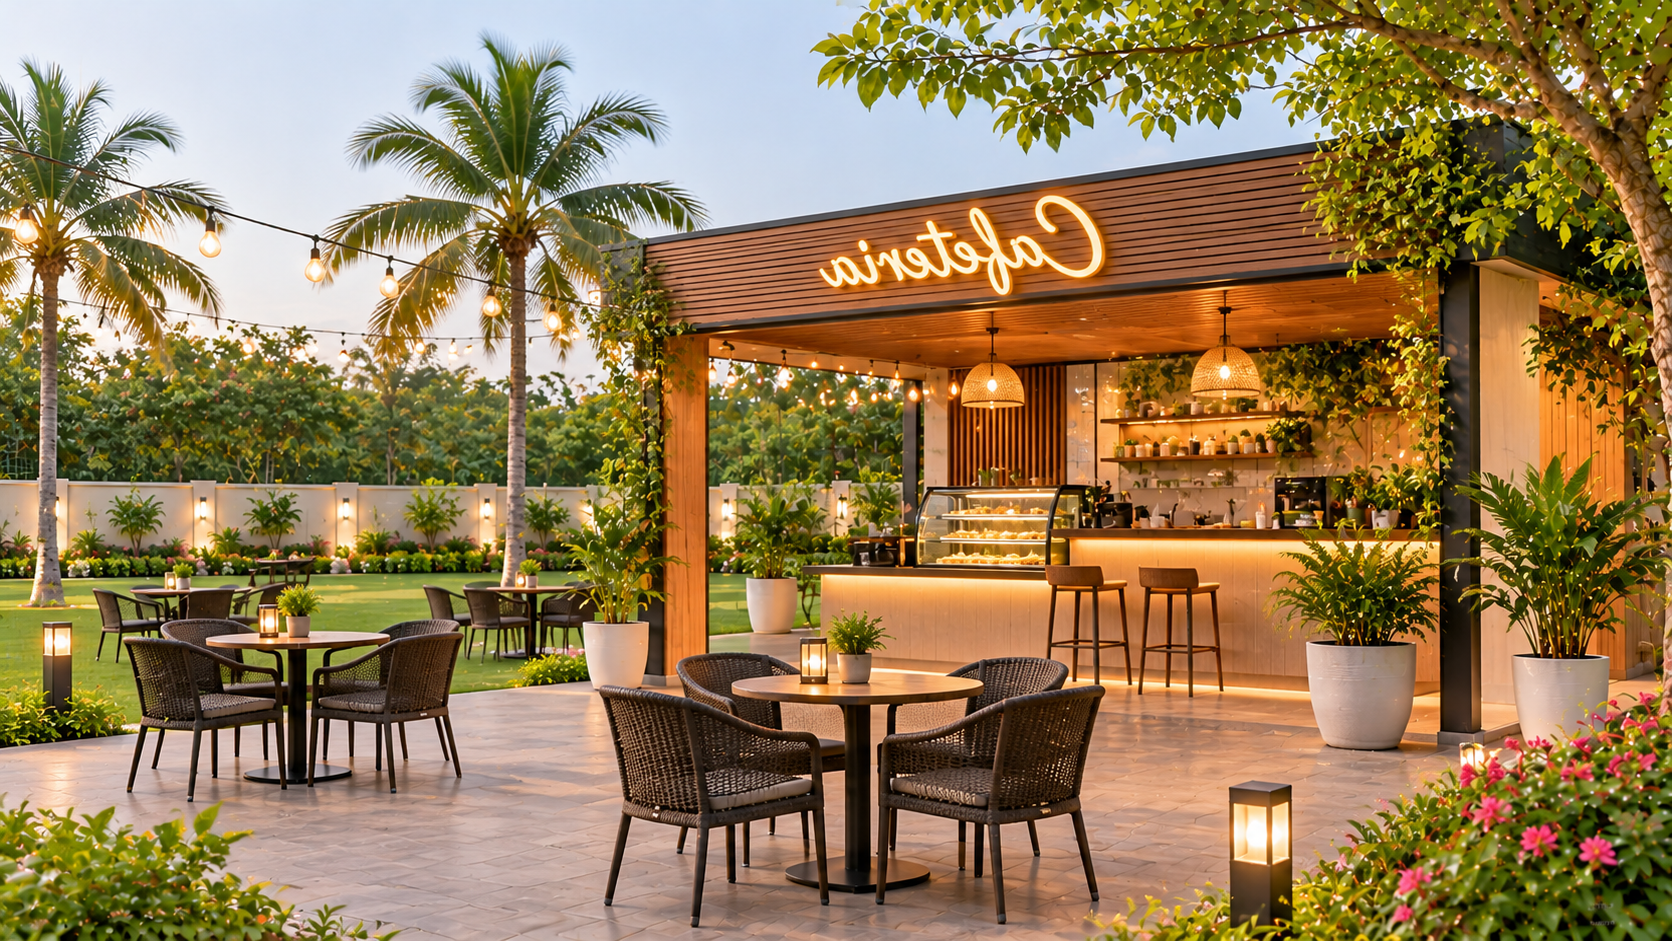
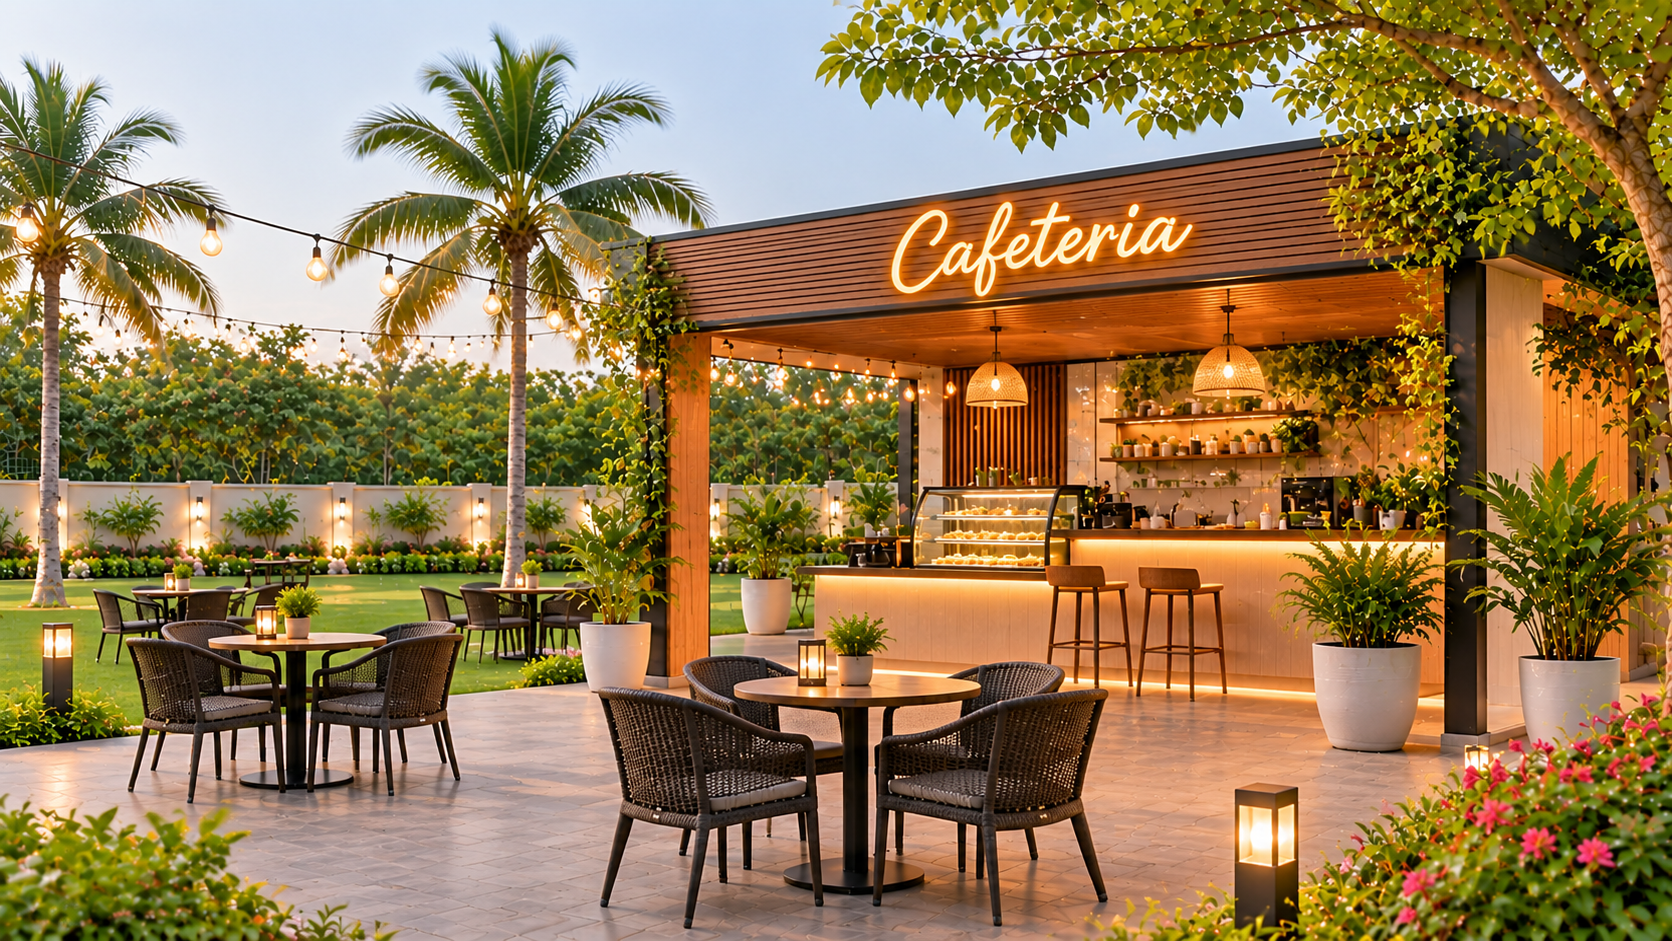
LATEST

diff --git a/css/style.css b/css/style.css
@@ -257,7 +257,10 @@ h3 { font-size: 1.3rem; }
 }
 @media(min-width:1200px) {
     .hero-content .container { margin-left:3.5vw; margin-right:auto; width:93%; max-width:none; padding-right:2rem; }
-  .hero-title { max-width:660px; font-size:clamp(2.8rem,4.1vw,4rem); line-height:1.08; }
+  .hero-title { max-width:1100px; font-size:clamp(2.6rem,3.6vw,3.6rem); line-height:1.08; }
+  .hero-title-first, .hero-title-accent { display:block; }
+  .hero-title-first { white-space:nowrap; }
+  .hero-title-accent { color:#d4ad55; }
   .hero .hero-overlay { background:linear-gradient(105deg, rgba(3,20,14,.97) 0%, rgba(4,26,18,.91) 37%, rgba(4,26,18,.57) 65%, rgba(4,26,18,.1) 100%); }
 }
 .hero-tag {
@@ -1083,8 +1086,8 @@ section { padding: 5rem 0; }
    ============================================================ */
 .footer { background:var(--primary); color:#fff; padding-top:4rem; }
 .footer-grid {
-  display:grid; gap:2.5rem;
-  grid-template-columns:repeat(auto-fit, minmax(200px, 1fr));
+  display:grid; gap:2.25rem;
+  grid-template-columns:minmax(0,1.15fr) minmax(130px,.7fr) minmax(0,1.2fr) minmax(0,1fr);
   margin-bottom:3rem;
 }
 .footer-logo { display:inline-flex; align-items:center; background:rgba(255,255,255,.76); padding:3px 4px; border-radius:10px; margin-bottom:1.2rem; }
@@ -1592,16 +1595,32 @@ section { padding: 5rem 0; }
     font-size: .8rem;
   }
 
-  .footer { padding-top: 3rem; }
-  .footer-grid { grid-template-columns: 1fr; gap: 1.8rem; }
+  .footer { padding-top: 2.5rem; }
+  .footer-grid { grid-template-columns: repeat(2, minmax(0, 1fr)); gap: 1.35rem .9rem; margin-bottom: 1.5rem; }
+  .footer-grid > div:first-child, .footer-grid > div:last-child { grid-column: 1 / -1; }
+  .footer-logo { margin-bottom: .75rem; padding: 2px 4px; }
+  .footer-logo img { width: min(100%, 210px); max-height: 48px; }
+  .footer-desc { max-width: 42ch; margin-bottom: .75rem; font-size: .78rem; line-height: 1.55; }
+  .footer-social { gap: .45rem; }
+  .social-btn { width: 32px; height: 32px; font-size: .78rem; }
+  .footer-heading { margin-bottom: .65rem; font-size: .88rem; }
+  .footer-links li { margin-bottom: .45rem; }
+  .footer-links a { font-size: .76rem; line-height: 1.4; }
+  .footer-contact li { gap: .5rem; margin-bottom: .65rem; font-size: .76rem; line-height: 1.45; }
   .footer-bottom {
     flex-direction: column;
-    align-items: flex-start;
+    align-items: center;
+    justify-content: center;
+    gap: .6rem;
+    padding: 1rem 0;
+    text-align: center;
+    font-size: .68rem;
   }
 
   .footer-bottom-links {
     flex-wrap: wrap;
-    gap: 1rem;
+    justify-content: center;
+    gap: .75rem;
   }
 
   .wa-float {
@@ -2011,3 +2030,116 @@ section { padding: 5rem 0; }
   .testimonials-section .testimonial-role { font-size: .6rem; }
   .testimonials-section .testimonial-stars { font-size: .7rem; }
 }
+/* Compact the Free Consultation and newsletter area on phones only */
+@media (max-width: 640px) {
+  .cta-section { padding: 2.8rem 0; }
+  .cta-inner { gap: 1.1rem; }
+  .cta-inner > .animate:first-child > .section-tag { font-size: .62rem; }
+  .cta-inner > .animate:first-child > h2 { font-size: clamp(1.4rem, 6.8vw, 1.8rem); line-height: 1.12; margin: .4rem 0 .65rem !important; }
+  .cta-inner > .animate:first-child > p { font-size: .82rem !important; line-height: 1.45; margin-bottom: .9rem !important; }
+  .cta-inner > .animate:first-child > .flex { gap: .45rem; }
+  .cta-inner > .animate:first-child > .flex .btn { min-height: 38px; padding: .5rem .7rem; font-size: .72rem; }
+  .cta-trust { gap: .55rem .8rem; margin-top: .85rem; }
+  .cta-trust span { font-size: .68rem; }
+  .newsletter-card { padding: 1.1rem; border-radius: 16px; }
+  .newsletter-card h3 { font-size: 1.15rem; margin-bottom: .35rem; }
+  .newsletter-card p { font-size: .76rem; line-height: 1.4; margin-bottom: .8rem; }
+  .newsletter-card .nl-field, .newsletter-card .nl-select { height: 40px; padding-inline: .75rem; font-size: .78rem; margin-bottom: .5rem; }
+  .newsletter-card .btn { height: 40px !important; min-height: 40px; padding: .45rem .7rem; font-size: .76rem; }
+  .newsletter-card p:last-child { font-size: .64rem !important; margin-top: .55rem !important; margin-bottom: 0; }
+}
+/* Simple Process: compact mobile layout */
+@media (max-width: 640px) {
+  .simple-process-section { padding: 2.2rem 0; }
+  .simple-process-section .section-header { margin-bottom: .95rem; }
+  .simple-process-section .section-tag { font-size: .58rem; }
+  .simple-process-section .section-title { font-size: clamp(1.25rem, 5.8vw, 1.6rem); line-height: 1.1; margin-bottom: .35rem; }
+  .simple-process-section .section-sub { font-size: .72rem; line-height: 1.35; }
+  .simple-process-section .steps-grid { gap: .85rem; }
+  .simple-process-section .step-num { width: 42px; height: 42px; margin-bottom: .5rem; border-width: 2px; font-size: .92rem; }
+  .simple-process-section .step-card h3 { margin-bottom: .22rem; font-size: .84rem; }
+  .simple-process-section .step-card p { font-size: .69rem; line-height: 1.38; }
+}
+/* Compact the Our Projects cards on phones without changing tablet or desktop layouts. */
+@media (max-width: 640px) {
+  .featured-projects { padding-block: 2.5rem; }
+  .featured-projects .section-title { font-size: clamp(1.5rem, 6vw, 2rem); }
+  .project-list-grid { gap: .65rem; }
+  .project-feature-card { min-height: 285px; border-radius: 15px; }
+  .project-feature-overlay { padding: 1.15rem; }
+  .project-feature-card h3 { margin-bottom: .5rem; font-size: clamp(1.5rem, 7vw, 2rem); }
+  .project-feature-card p { margin-bottom: .75rem; font-size: .94rem; }
+  .project-feature-points { gap: .35rem .75rem; margin-bottom: .85rem; }
+  .project-feature-points span { font-size: .73rem; }
+  .project-feature-label { margin-bottom: .6rem; }
+  .project-feature-cta { font-size: .9rem; }
+}
+
+/* Nature View Farm: show More Than A Plot cards two across. */
+.nature-life-grid { grid-template-columns: repeat(2, minmax(0, 1fr)); }
+.nature-life-card-featured,
+.nature-life-card-wide { grid-column: auto; grid-row: auto; }
+@media (max-width: 620px) {
+  .nature-life-grid { grid-template-columns: repeat(2, minmax(0, 1fr)); gap: .7rem; }
+  .nature-life-card,
+  .nature-life-card-wide { min-height: 250px; padding: .85rem; border-radius: 15px; }
+  .life-icon { top: .65rem; right: .65rem; width: 2.1rem; height: 2.1rem; font-size: 1rem; }
+  .life-copy { max-width: 100%; }
+  .life-kicker { font-size: .58rem; letter-spacing: .08em; }
+  .life-copy h3 { font-size: 1.05rem; }
+  .life-copy p:last-child { font-size: .76rem; line-height: 1.4; }
+}
+
+/* Refine the Nature View Farm mobile cards and hero category accent. */
+.project-page-hero .page-hero-tag { color: #c8e4a1; }
+@media (max-width: 620px) {
+  .nature-life-section .container { width: calc(100% - 1.5rem); }
+  .nature-life-grid { column-gap: .45rem; }
+}
+
+/* Nature View Farm overview: tighter heading and section spacing. */
+.nature-overview-section { padding: 3rem 0 2.25rem; }
+.nature-overview-section .section-header { margin-bottom: 1.75rem; }
+.nature-overview-section .section-title { font-size: clamp(1.8rem, 3.2vw, 2.55rem); }
+.nature-overview-section .section-sub { font-size: .98rem; line-height: 1.5; }
+.nature-overview-section .project-support-grid { margin-top: 0; }
+@media (max-width: 640px) {
+  .nature-overview-section { padding: 2.4rem 0 1.8rem; }
+  .nature-overview-section .section-header { margin-bottom: 1.25rem; }
+  .nature-overview-section .section-title { font-size: 1.65rem; }
+  .nature-overview-section .section-sub { font-size: .9rem; }
+}
+
+/* Mobile-only horizontal slider for Nature View Farm support cards. */
+@media (max-width: 640px) {
+  .nature-overview-section .project-support-grid {
+    display: flex;
+    gap: .75rem;
+    overflow-x: auto;
+    overscroll-behavior-inline: contain;
+    padding: .1rem .05rem .6rem;
+    scroll-snap-type: x mandatory;
+    scrollbar-width: none;
+    -webkit-overflow-scrolling: touch;
+  }
+  .nature-overview-section .project-support-grid::-webkit-scrollbar { display: none; }
+  .nature-overview-section .service-detail-card {
+    flex: 0 0 min(84%, 330px);
+    min-height: 205px;
+    padding: 1.15rem;
+    border-radius: 16px;
+    scroll-snap-align: start;
+  }
+  .nature-overview-section .sd-header { gap: .75rem; margin-bottom: .8rem; }
+  .nature-overview-section .sd-icon { flex: 0 0 44px; width: 44px; height: 44px; }
+  .nature-overview-section .sd-header h3 { margin-bottom: .35rem; font-size: 1.05rem; }
+  .nature-overview-section .sd-header p { margin-bottom: 0; font-size: .86rem; line-height: 1.45; }
+}
+
+/* Match the Nature View Farm hero category to the site's golden accent. */
+.project-page-hero .page-hero-tag { color: #d4ad55; }
+
+/* Keep the Nature View Farm category label the same color as its hero title. */
+.project-page-hero .page-hero-tag { color: #fff; }
+
+.project-page-hero .nature-view-title { color: #d4ad55; }

diff --git a/index.html b/index.html
@@ -55,8 +55,9 @@
         <div class="hero-slide" style="background-image:url('images/cricketturf.png')" aria-hidden="true"></div>
               <div class="hero-slide" style="background-image:url('images/family-farm-garden\ -\ Copy.png')" aria-hidden="true"></div>
                    <div class="hero-slide" style="background-image:url('images/cafeteria.png')" aria-hidden="true"></div>
-
         <div class="hero-slide" style="background-image:url('images/gazebo.png')" aria-hidden="true"></div>
+                <div class="hero-slide" style="background-image:url('images/rammandir.png')" aria-hidden="true"></div>
+
              
 
        <!-- <div class="hero-slide" style="background-image:url('images/hero-farmland-crops.jpg')" aria-hidden="true"></div>-->
@@ -74,7 +75,7 @@
   </div>  <div class="hero-content">
     <div class="container">
       <span class="hero-tag">Farmland &amp; Residential Plots</span>
-      <h1 class="hero-title"><!-- One Team, <br/>Big Dream—-->Your Trusted <br/>Property Partner <br/><span class="hero-title-accent">  in Jabalpur</span> <span class="hero-title-tail"></span></h1>
+      <h1 class="hero-title"><!-- One Team, <br/>Big Dream—--><span class="hero-title-first">Your Trusted Property </span><span class="hero-title-accent">Partner in Jabalpur</span></h1>
       <p class="hero-sub">Discover your dream property with RS Properties, your trusted real estate partner in Jabalpur. Explore residential plots, beautiful farmhouses, and peaceful farmland with a simple, hassle-free property experience.</p>
       <div class="hero-actions">
         <a class="btn btn-primary" href="nature-view-farm.html">Explore Projects <span aria-hidden="true">&#8594;</span></a>
@@ -334,7 +335,7 @@
 
 
 <!-- HOW IT WORKS -->
-<section class="bg-light">
+<section class="bg-light simple-process-section">
   <div class="container">
     <div class="section-header animate">
       <span class="section-tag">Simple Process</span>

diff --git a/nature-view-farm.html b/nature-view-farm.html
@@ -48,7 +48,7 @@
     <div class="project-hero-layout">
       <div class="project-hero-copy">
         <p class="page-hero-tag">Farmland</p>
-        <h1>Nature View Farm</h1>
+        <h1 class="nature-view-title">Nature View Farm</h1>
         <p>Explore Nature View Farm with RS Properties. Enquire for current availability, exact location details, payment options, and site visit assistance.</p>
       </div>
       <a class="project-hero-image" href="images/nature-view-farm-layout.png" target="_blank" rel="noopener" aria-label="View the Nature View Farm site layout full size">
@@ -59,7 +59,7 @@
   </div>
 </div>
 
-<section style="padding:4rem 0 3rem">
+<section class="nature-overview-section">
   <div class="container">
     <div class="section-header">
       <span class="section-tag">Farmland</span>
